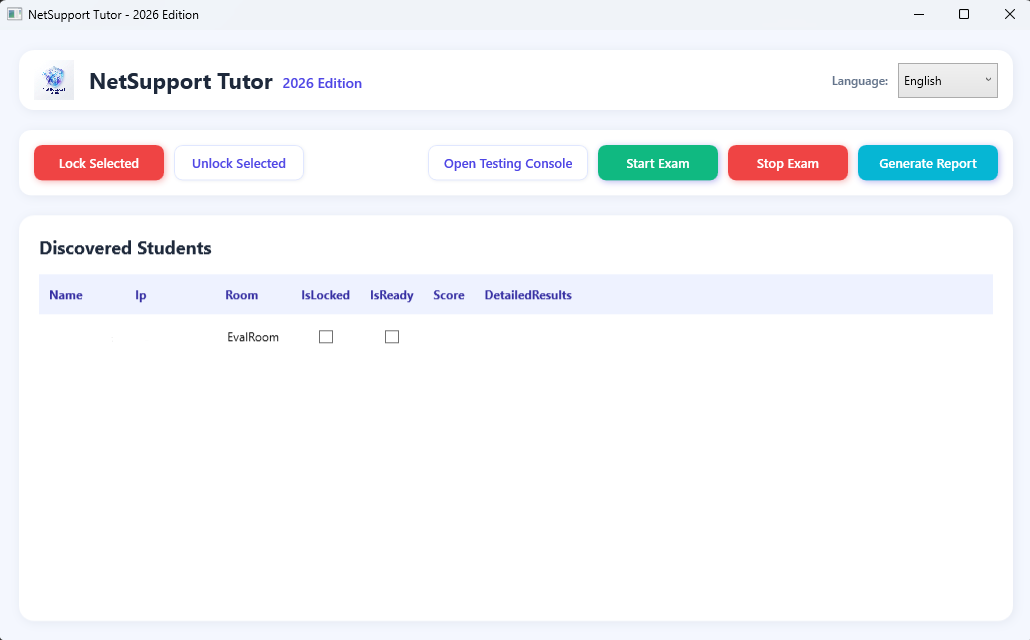
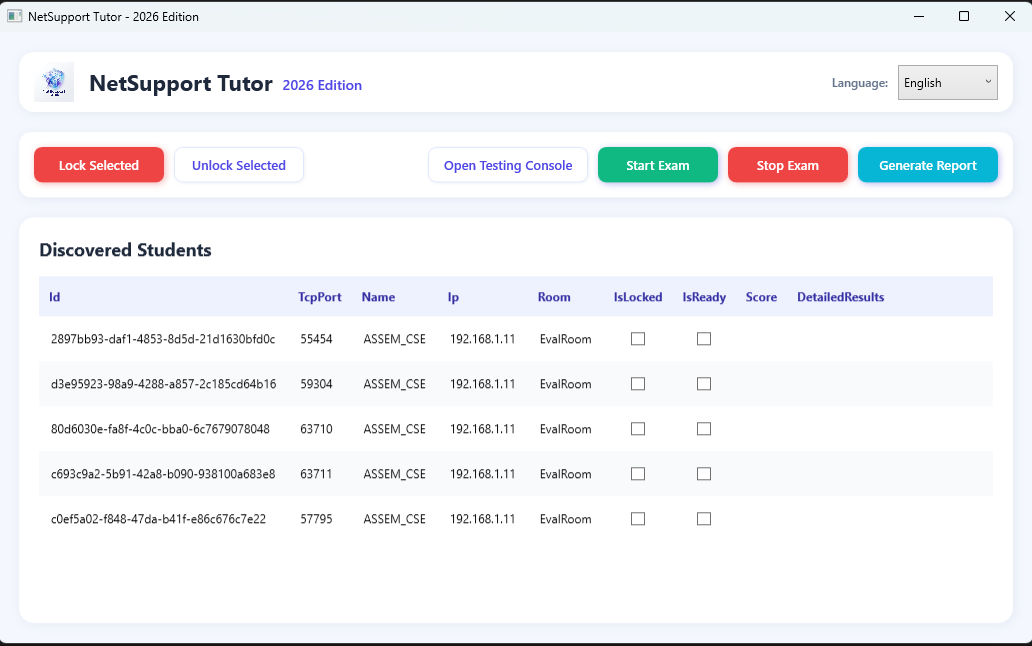
feat: supporting multi instances running on the same localhost ip

diff --git a/NetSupport.Tutor/MainWindow.xaml.cs b/NetSupport.Tutor/MainWindow.xaml.cs
@@ -41,7 +41,8 @@ public partial class MainWindow : Window
     {
         Application.Current.Dispatcher.Invoke(() =>
         {
-            var existing = _discoveredStudents.FirstOrDefault(s => s.Ip == student.Ip);
+            // Use the unique instance Id (not IP) to allow multiple instances on one machine
+            var existing = _discoveredStudents.FirstOrDefault(s => s.Id == student.Id);
             if (existing == null)
             {
                 _discoveredStudents.Add(student);
@@ -95,7 +96,7 @@ public partial class MainWindow : Window
     {
         if (StudentsDataGrid.SelectedItem is StudentHelloPayload student)
         {
-            await _commandSender.SendCommandAsync(student.Ip, "LOCK");
+            await _commandSender.SendCommandAsync(student.Ip, "LOCK", null, student.TcpPort);
             student.IsLocked = true; // Update the UI flag
         }
         else
@@ -108,7 +109,7 @@ public partial class MainWindow : Window
     {
         if (StudentsDataGrid.SelectedItem is StudentHelloPayload student)
         {
-            await _commandSender.SendCommandAsync(student.Ip, "UNLOCK");
+            await _commandSender.SendCommandAsync(student.Ip, "UNLOCK", null, student.TcpPort);
             student.IsLocked = false; // Update the UI flag
         }
         else
@@ -141,7 +142,7 @@ public partial class MainWindow : Window
                 return;
             }
 
-            await _commandSender.SendCommandAsync(student.Ip, "START_EXAM");
+            await _commandSender.SendCommandAsync(student.Ip, "START_EXAM", null, student.TcpPort);
             student.Score = "Started...";
             MessageBox.Show($"Exam started for {student.Name}!", "Success", MessageBoxButton.OK, MessageBoxImage.Information);
         }
@@ -163,7 +164,7 @@ public partial class MainWindow : Window
 
             if (MessageBox.Show($"Are you sure you want to stop the exam for {student.Name}? This will force them to submit.", "Confirm Stop", MessageBoxButton.YesNo, MessageBoxImage.Warning) == MessageBoxResult.Yes)
             {
-                await _commandSender.SendCommandAsync(student.Ip, "STOP_EXAM");
+                await _commandSender.SendCommandAsync(student.Ip, "STOP_EXAM", null, student.TcpPort);
                 MessageBox.Show("Stop command sent.", "Success", MessageBoxButton.OK, MessageBoxImage.Information);
             }
         }

diff --git a/NetSupport.Student/Services/TcpCommandListener.cs b/NetSupport.Student/Services/TcpCommandListener.cs
@@ -15,19 +15,31 @@ public class CommandReceivedEventArgs : EventArgs
 
 /// <summary>
 /// Listens for direct TCP commands (like LOCK/UNLOCK/PUSH_EXAM) from the Tutor.
+/// Binds to port 0 so the OS assigns a free random port, enabling multiple
+/// Student instances to run simultaneously on the same machine.
 /// </summary>
 public class TcpCommandListener
 {
     private bool _isRunning = false;
     private TcpListener? _tcpListener;
 
+    /// <summary>
+    /// The actual port the OS assigned after binding to port 0.
+    /// This must be broadcast to the Tutor so it knows where to connect.
+    /// </summary>
+    public int AssignedPort { get; private set; } = 0;
+
     public event EventHandler<CommandReceivedEventArgs>? CommandReceived;
 
     public void StartListening()
     {
         _isRunning = true;
-        _tcpListener = new TcpListener(IPAddress.Any, Constants.TcpCommandPort);
+        // Bind to port 0: the OS will automatically assign a free port
+        _tcpListener = new TcpListener(IPAddress.Any, 0);
         _tcpListener.Start();
+
+        // Read back which port was actually assigned
+        AssignedPort = ((IPEndPoint)_tcpListener.LocalEndpoint).Port;
 
         Task.Run(ListenLoopAsync);
     }

diff --git a/NetSupport.Student/App.xaml.cs b/NetSupport.Student/App.xaml.cs
@@ -19,14 +19,20 @@ public partial class App : Application
     {
         base.OnStartup(e);
 
-        // 1. Start UDP Broadcaster (shouts presence)
-        _broadcaster = new UdpBroadcaster();
-        Task.Run(() => _broadcaster.StartBroadcastingAsync(Environment.MachineName, "EvalRoom"));
+        // Generate a unique ID for this specific instance
+        // This allows the Tutor to distinguish multiple Student apps on the same machine
+        var instanceId = Guid.NewGuid().ToString();
 
-        // 2. Start TCP Command Listener (waits for LOCK commands)
+        // 1. Start TCP listener FIRST so we can read the OS-assigned dynamic port
         _commandListener = new TcpCommandListener();
         _commandListener.CommandReceived += OnCommandReceived;
         _commandListener.StartListening();
+
+        int assignedPort = _commandListener.AssignedPort;
+
+        // 2. Start UDP Broadcaster, broadcasting the instance ID and dynamic port
+        _broadcaster = new UdpBroadcaster();
+        Task.Run(() => _broadcaster.StartBroadcastingAsync(Environment.MachineName, "EvalRoom", instanceId, assignedPort));
     }
 
     private void OnCommandReceived(object? sender, CommandReceivedEventArgs e)

diff --git a/NetSupport.Tutor/Services/TcpCommandSender.cs b/NetSupport.Tutor/Services/TcpCommandSender.cs
@@ -11,13 +11,15 @@ namespace NetSupport.Tutor.Services;
 /// </summary>
 public class TcpCommandSender
 {
-    public async Task SendCommandAsync(string ipAddress, string commandType, object? customPayload = null)
+    public async Task SendCommandAsync(string ipAddress, string commandType, object? customPayload = null, int port = 0)
     {
+        // Fall back to the constant if no dynamic port was provided (legacy real-machine mode)
+        int targetPort = port > 0 ? port : Constants.TcpCommandPort;
         try
         {
             // Connect directly to the specific student
             using var tcpClient = new TcpClient();
-            await tcpClient.ConnectAsync(ipAddress, Constants.TcpCommandPort);
+            await tcpClient.ConnectAsync(ipAddress, targetPort);
 
             // Prepare the JSON message
             var message = new NetworkMessage

diff --git a/NetSupport.Student/Services/UdpBroadcaster.cs b/NetSupport.Student/Services/UdpBroadcaster.cs
@@ -13,7 +13,7 @@ public class UdpBroadcaster
 {
     private bool _isRunning = false;
 
-    public async Task StartBroadcastingAsync(string studentName, string roomName)
+    public async Task StartBroadcastingAsync(string studentName, string roomName, string instanceId, int tcpPort)
     {
         _isRunning = true;
         
@@ -28,9 +28,11 @@ public class UdpBroadcaster
         {
             try
             {
-                // 1. Create the payload with the student's info
+                // 1. Create the payload with the student's unique info
                 var payload = new StudentHelloPayload
                 {
+                    Id = instanceId,
+                    TcpPort = tcpPort,
                     Name = studentName,
                     Ip = GetLocalIpAddress(),
                     Room = roomName

diff --git a/NetSupport.Shared/Models/StudentHelloPayload.cs b/NetSupport.Shared/Models/StudentHelloPayload.cs
@@ -16,6 +16,20 @@ public class StudentHelloPayload : INotifyPropertyChanged
     private bool _isReady = false;
 
     /// <summary>
+    /// A unique identifier for this specific student instance. Allows the Tutor to
+    /// distinguish between multiple Student apps running on the same machine (same IP).
+    /// </summary>
+    [JsonPropertyName("id")]
+    public string Id { get; set; } = Guid.NewGuid().ToString();
+
+    /// <summary>
+    /// The dynamic TCP port this student instance is listening on.
+    /// This allows multiple instances to run simultaneously without port conflicts.
+    /// </summary>
+    [JsonPropertyName("tcpPort")]
+    public int TcpPort { get; set; } = 0;
+
+    /// <summary>
     /// The name of the student's PC (e.g., "PC-01").
     /// </summary>
     [JsonPropertyName("name")]

diff --git a/NetSupport.Tutor/UI/TestingConsoleWindow.xaml.cs b/NetSupport.Tutor/UI/TestingConsoleWindow.xaml.cs
@@ -72,7 +72,7 @@ public partial class TestingConsoleWindow : Window
         };
 
         // Send the payload to the specific student
-        await _commandSender.SendCommandAsync(_targetStudent.Ip, "PUSH_EXAM", payload);
+        await _commandSender.SendCommandAsync(_targetStudent.Ip, "PUSH_EXAM", payload, _targetStudent.TcpPort);
 
         MessageBox.Show("Exam pushed successfully! Waiting for student to login...", "Success", MessageBoxButton.OK, MessageBoxImage.Information);
         this.Close();
